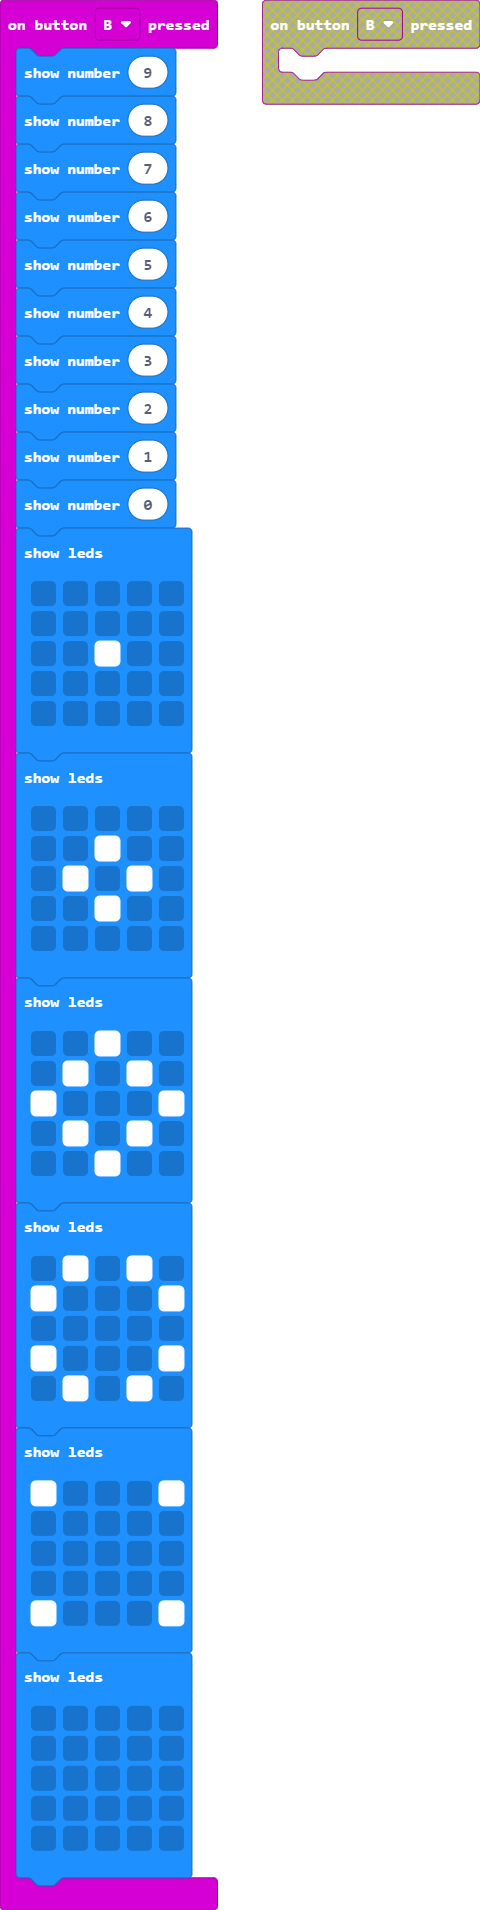
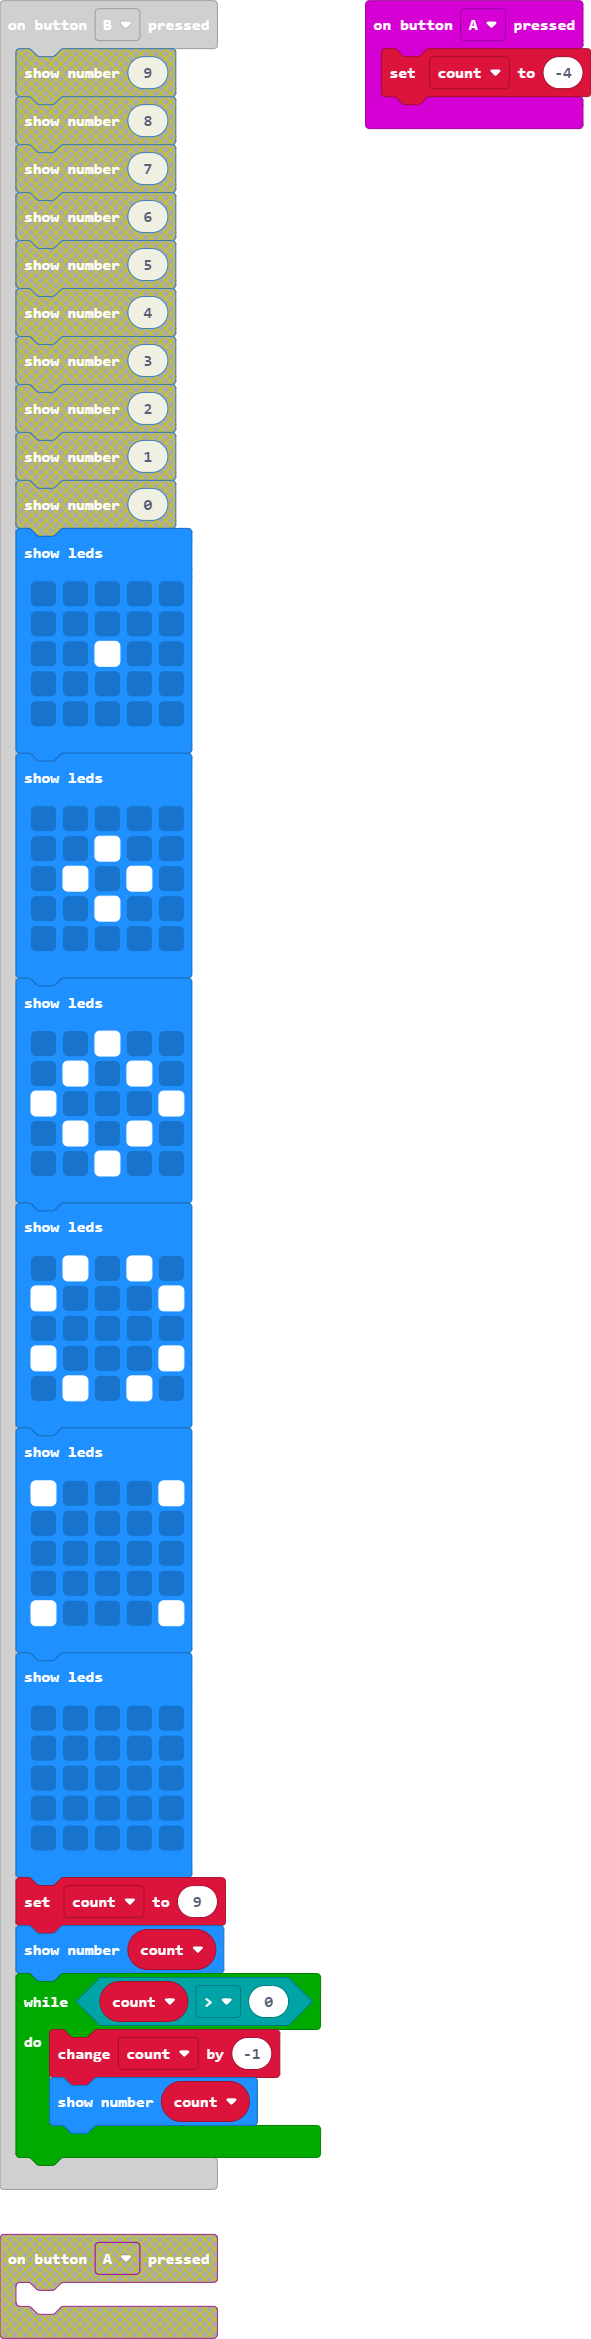
Update main.blocks, main.ts

diff --git a/main.ts b/main.ts
@@ -1,17 +1,14 @@
+let count = 0
 input.onButtonPressed(Button.A, function () {
-	
+    count = -4
 })
 input.onButtonPressed(Button.B, function () {
-    basic.showNumber(9)
-    basic.showNumber(8)
-    basic.showNumber(7)
-    basic.showNumber(6)
-    basic.showNumber(5)
-    basic.showNumber(4)
-    basic.showNumber(3)
-    basic.showNumber(2)
-    basic.showNumber(1)
-    basic.showNumber(0)
+    count = 9
+    basic.showNumber(count)
+    while (count > 0) {
+        count += -1
+        basic.showNumber(count)
+    }
     basic.showLeds(`
         . . . . .
         . . . . .
